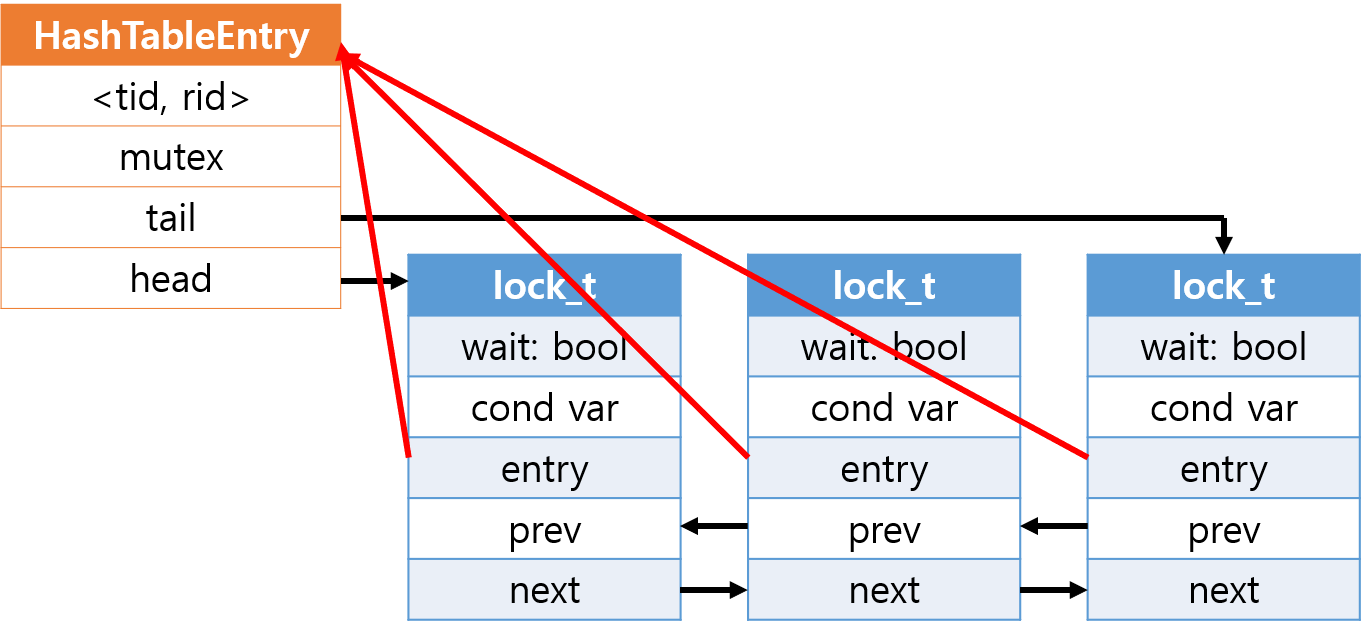
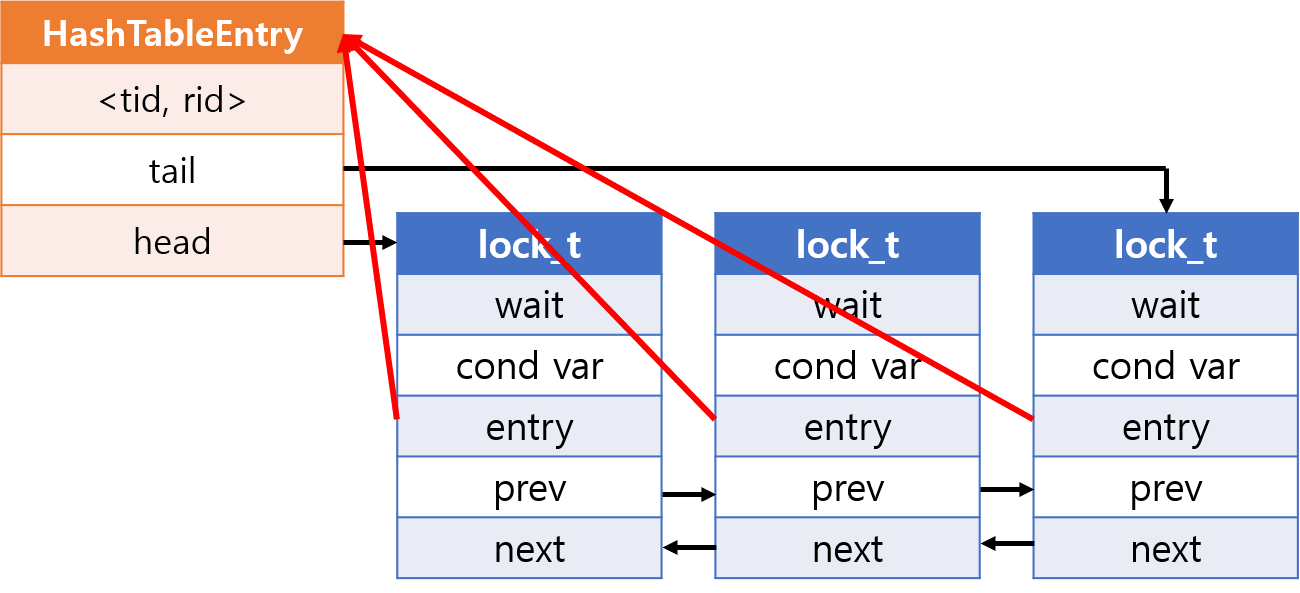
docs: fix project4 design

Changed region(s): [[0.0, 0.0, 1.0, 1.0]]

diff --git a/project4/README.md b/project4/README.md
@@ -2,7 +2,7 @@
 
 ## A. Hash Table
 ### a. hash table data structure
-Hash table은 C++ 표준 라이브러리에 있는 `std::unordered_map`을 사용했다. key는 <tid, rid>로 된 tuple이며, value는 `HashTableEntry` 타입의 주솟값이다. 또한, hash table에 mutex를 두었다.
+Hash table은 C++ 표준 라이브러리에 있는 `std::unordered_map`을 사용했다. key는 <tid, rid>로 된 tuple이며, value는 `HashTableEntry` 타입의 주소값이다. 또한, hash table에 mutex를 두었다.
 
 ### b. hashing
 C++엔 tuple의 hashing이 정의돼있지 않다. 하지만, string에 대한 hashing을 지원하므로 이를 사용했다. 따라서 "tid|rid"란 문자열을 만들고 이를 string의 hash function에 넣어 hash를 생성하도록 했다. 이에 대한 구현은 `std::hash`에 대해 template specialization로 하였다.
@@ -10,39 +10,31 @@ C++엔 tuple의 hashing이 정의돼있지 않다. 하지만, string에 대한 h
 ![hashing](res/hashing.png)
 
 ### c. hash table entry & lock
-Hash table의 entry는 <tid, rid> tuple, entry에 대한 mutex, 그리고 lock linked list의 head, tail node를 가지고 있다.
+Hash table의 entry는 <tid, rid> tuple, 그리고 lock linked list의 head, tail node를 가지고 있다.
 
 각 lock은 대기 여부 `wait`, condition variable, next, previous node 그리고 lock이 속한 entry를 가지고 있다.
 
 ![hash_table_entry](res/hash_tbl_entry.png)
 
 ## B. Lock Policy
-위 design에서 mutex는 hash table과 각 entry마다 존재한다. hash table에 있는 mutex는 hash table을 수정하는 작업을 할 때 race condition으로부터 보호하기 위해 사용되고, 각 entry에 존재하는 mutex는 lock linked list를 변경하는 작업을 보호하기 위해 사용된다.
+### a. lock acquire
+초기 design은 hash table mutex와 각 entry별 entry mutex를 별도로 두었다. 각각이 수정될 때 대응되는 mutex만 lock하는 방식으로 동작하는 방식이다. `lock_acqure`에선 hash table에 새로운 entry를 넣을 때 hash table의 수정이 발생한다. 따라서 hash table이 수정되는 코드만 hash table mutex를 lock해 보호하고, lock linked list를 수정하는 부분은 해당하는 entry mutex로 보호해야한다.
 
-### a. hash table lock
-#### 1. lock acquire
-`lock_acqure`에선 hash table에 새로운 entry를 넣을 때 hash table의 수정이 발생한다. 따라서 hash table이 수정되는 코드만 hash table mutex를 lock해 보호하면 된다.
-
-하지만 lock linked list를 수정하는 부분까지도 hash table mutex로 보호해야한다.
+하지만 lock linked list의 수정도 hash table mutex에 의해 보호돼야한다.
 
 ![race_condition](res/race_cond.png)
 
 그렇지 않으면 위 그림처럼 `lock_acquire`가 먼저 수행되어 lock이 있어야함에도 불구하고 **Thread B**가 실행되는 시점엔 lock이 존재하지 않다고 판단되어 entry를 파괴한 뒤 해당 entry에 **Thread A**가 접근하는 일이 발생할 수 있다.
 
-그러나 이미 lock이 list에 존재하여 그 후에 생성된 lock이 대기하는 부분은 hash table mutex에 의해 보호받을 필요가 없으므로 해당 작업을 하기 전에 hash table mutex를 unlock한다.
+위와 같은 사유로 `lock_acquire`의 동작 전반이 hash table mutex에 의해 보호돼야하므로 entry mutex의 필요성이 사라진다. 따라서 최종 design에선 hash table mutex 하나만 존재한다.
 
-#### 2. lock release
+### b. lock release
 `lock_release`에선 entry의 lock linked list가 비었을 때 hash table에서 해당 entry를 제거하면서 hash table의 수정이 발생한다. 허나 lock acquire에서 본 사례와 마찬가지로 lock list를 수정하는 부분까지도 hash table mutex를 통해 보호해야한다. 그러므로 `lock_release`가 호출된 시점에 hash table mutex를 lock하고 호출이 끝나는 시점에 unlock한다.
 
-### b. entry lock
-#### 1. lock acquire/release
-lock acquire와 lock release 모두 entry의 lock linked list를 변경한다. 따라서 두 method모두 호출될 때 entry mutex를 lock하고 호출이 끝날 때 unlock한다.
-
-#### 2. using condition variable
+### c. using condition variable
 각각 `lock_t` object가 `std::condition_varaible`을 가지고 있는 디자인과, entry에서 하나의 `std::condition_varaible`을 갖고 각 `lock_t` object는 대기 여부만 저장하게 하는 디자인을 비교했다. 전자는 `lock_t`당 80 byte, 후자는 32 byte를 차지한다. 하지만 성능을 비교했을 때 전자가 다소 빨랐다.
 
 ![condition_variable_design](res/cond_var_design.png)  
-> 1 thread: 1.5% 성능 향상  
 > 4 thread: 5.5% 성능 향상  
 > 8 thread: 9% 성능 향상  
 > 16 thread: 25.4% 성능 향상
